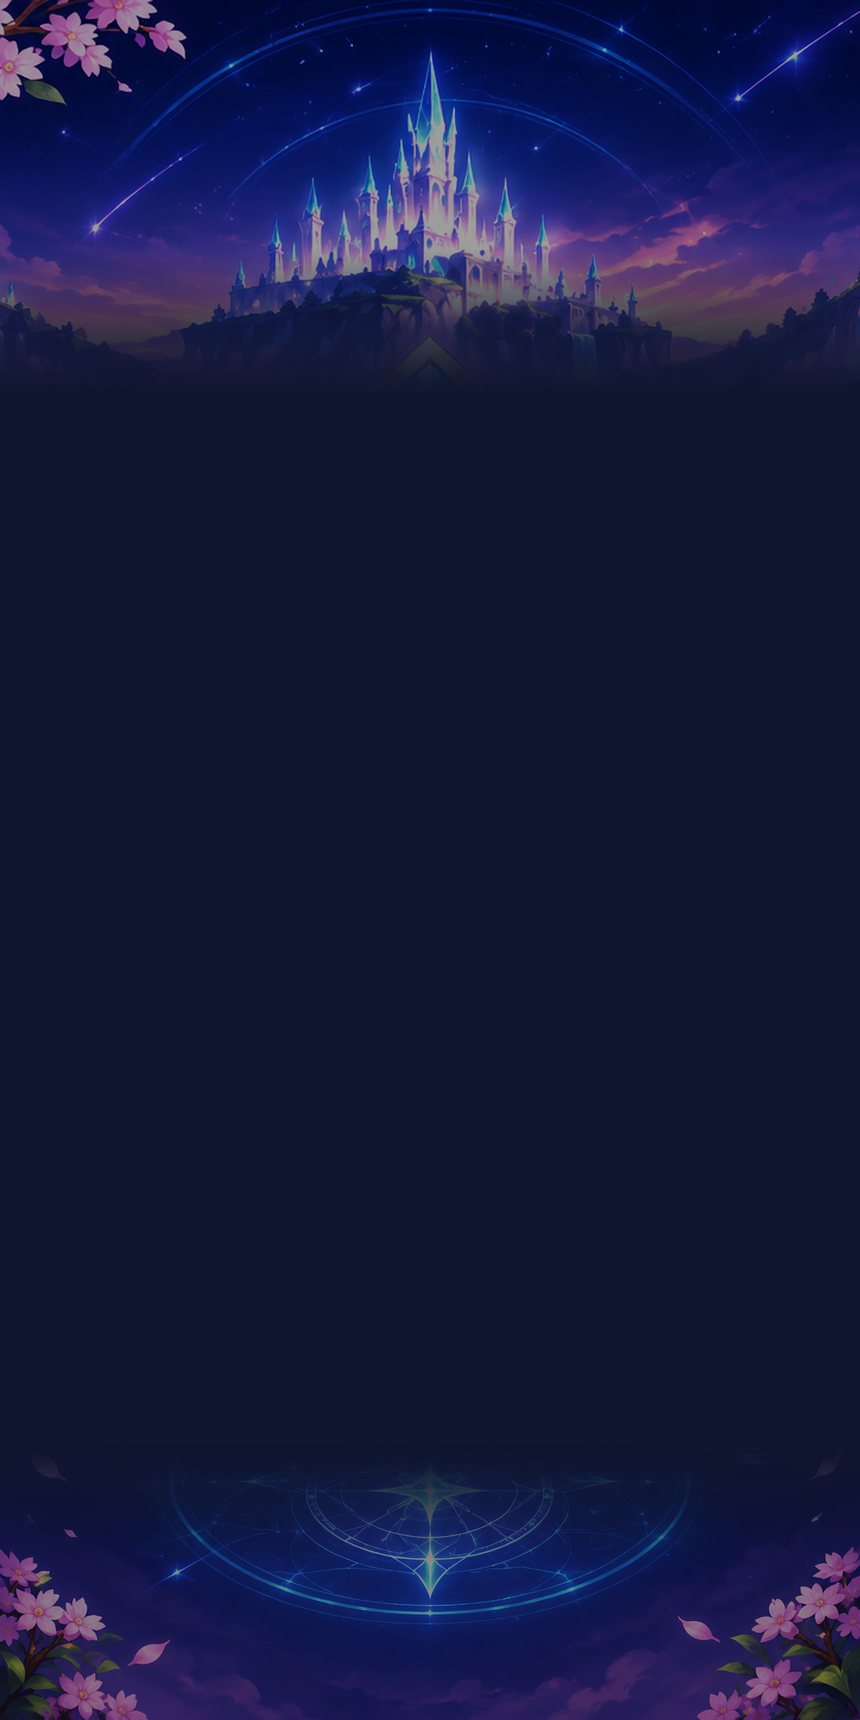
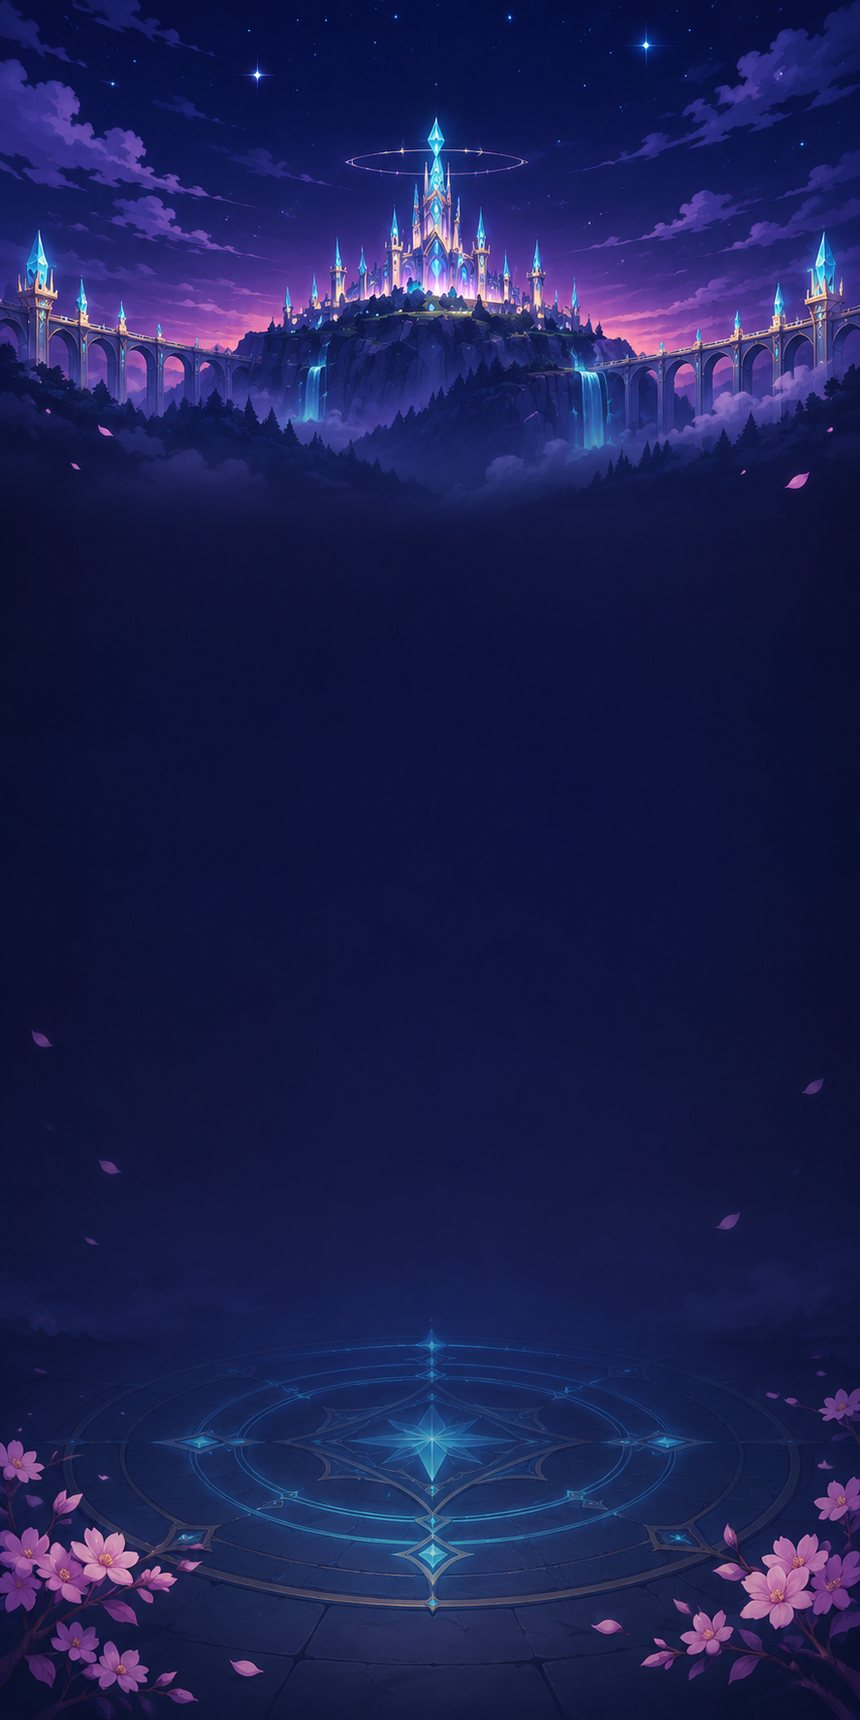
thap B3: ảnh anime mới — vòng quay, rương, băng shop/sự kiện, tấm hộp thoại, ổ khoá/cộng/tích, nền màn tải
Claude-Session: https://claude.ai/code/session_01KQA7LFBkcdkiPiLcwYs7V2

diff --git a/thap/css/ui-anime.css b/thap/css/ui-anime.css
@@ -15,6 +15,7 @@
   --ua-a: url(../assets/ua_nut_chinh.png) 40 75 fill; --ua-b: url(../assets/ua_nut_phu.png) 36 60 fill;
   --ua-p: url(../assets/ua_pill_tat.png) 40 62 fill; --ua-pb: url(../assets/ua_pill_bat.png) 40 62 fill;
   --ua-t: url(../assets/ua_tam.png) 50 fill; --ua-o: url(../assets/ua_o.png) 52 fill;
+  --ua-t2: url(../assets/ua_tam2.png) 60 44 44 44 fill; /* tấm hộp thoại lớn (vương miện giữa mép trên): rộng ≥ 300 */
 }
 html.ua, html.ua body { background: #10162F; }
 /* token màu cũ trỏ về bảng mới (chữ/nhấn trong mọi màn menu đổi theo) */
@@ -179,7 +180,7 @@ html.ua body #wrap #chon button.hm-choi.dc-tat { border-image-source: url(../ass
 html.ua body #wrap #chon button.hm-choi.dc-tat b, html.ua body #wrap #chon button.hm-choi.dc-tat small { color: #B8C3E6 !important; }
 /* ô bộ bài trống: ô vát góc chàm (ua_o) + nút tròn cộng (ua_nut_tron) — thay khung thép + ốc */
 html.ua body #wrap #chon #chon-bo .o-bo:not([data-id]) { background: none !important; border: 0 solid transparent !important; border-image: var(--ua-o) / 14px 14px stretch !important; }
-html.ua body #wrap #chon #chon-bo .o-bo:not([data-id]) > img.dc-cong { content: url(../assets/ua_nut_tron.png); width: 34px !important; height: 36px !important; opacity: .9; }
+html.ua body #wrap #chon #chon-bo .o-bo:not([data-id]) > img.dc-cong { width: 26px !important; height: 26px !important; margin: -13px 0 0 -13px !important; opacity: .9; }
 /* bộ bài: 5 ô gọn hơn (rộng 62) để lưới bắt đầu cao hơn — vuốt dọc từ hàng thẻ thứ 2 vẫn là cuộn (dkkeo: kéo lên quá mép lưới = kéo thẻ) */
 html.ua body #wrap #chon #chon-bo { justify-content: center !important; gap: 12px !important; padding-top: 24px !important; }
 html.ua body #wrap #chon #chon-bo .o-bo { flex: 0 0 62px !important; width: 62px !important; }
@@ -282,14 +283,16 @@ html.ua body #wrap #kt .kt-h-g .tb-sb { border: 0 !important; border-image: none
 html.ua body #wrap #kt .kt-h-g .tb-sb .tb-day img { content: url(../assets/ha_mau_xanh.png); object-fit: fill; }
 html.ua body #wrap #kt .tb-sb b { color: #F7F8FF !important; text-shadow: 0 1px 2px #000, 0 0 3px #000 !important; }
 /* băng DAILY SPECIALS: tạm = tấm chàm + icon cửa hàng (ảnh băng anime riêng: PROMPT-B3.md) — bỏ khung thép của shop_banner */
-html.ua body #wrap #kt .kt-bn { height: 84px; border: 0 solid transparent; border-image: var(--ua-t) / 18px 22px stretch; }
-html.ua body #wrap #kt .kt-bn > img { content: url(../assets/ua_ic_shop.png); position: absolute; right: 18px; top: 50%; width: 70px !important; height: 70px !important; margin-top: -35px; object-fit: contain; filter: drop-shadow(0 2px 3px #000a); } /* vetay-ok: png — bóng theo alpha của chính ảnh */
+html.ua body #wrap #kt .kt-bn > img { content: url(../assets/ua_bn_shop.png); } /* băng anime: trái trống cho chữ, phải quầy hàng + rương */
 html.ua body #wrap #kt .kt-bn b { color: #FFB866 !important; }
 /* hộp thoại cửa hàng (tỉ lệ rương, nhận thưởng, mở khoá…): tấm chàm */
 html.ua body #wrap #kt .kt-phu-tam { border-image: var(--ua-t) / 20px 22px stretch !important; }
 html.ua body #wrap #kt .kt-phu.kt-mo .kt-phu-tam { border-image: none !important; }
 /* sự kiện: băng ụ nổi bật (khung vàng-thép) → tạm tấm chàm (ảnh băng anime: PROMPT-B3.md); thanh điểm teal */
-html.ua body #wrap #kt .kt-skd { border: 0 solid transparent; border-image: var(--ua-t) / 18px 22px stretch; aspect-ratio: auto; min-height: 104px; padding-left: 18px; }
+html.ua body #wrap #kt .kt-skd { border: 0 solid transparent; border-image: url(../assets/ua_bn_sk.png) 50 60 40 230 fill / 22px 27px 18px 104px stretch; aspect-ratio: auto; height: 112px; padding: 0 0 0 0; gap: 14px; margin-left: 0; }
+html.ua body #wrap #kt .kt-skd { padding-left: 112px !important; }
+html.ua body #wrap #kt .kt-skd .ot-mini { position: absolute !important; left: 38px !important; top: 50% !important; margin-top: -28px !important; width: 56px !important; height: 56px !important; }
+html.ua body #wrap #kt .kt-skd > div { max-width: 62% !important; }
 html.ua body #wrap #kt .kt-skd > .kt-skd-bn { display: none !important; }
 html.ua body #wrap #kt .kt-skp .tb-sb { border: 0 !important; border-image: none !important; background: url(../assets/ha_mau_ranh.png) 0 50% / 100% 100% no-repeat !important; }
 html.ua body #wrap #kt .tb-day img, html.ua body #wrap #chon #chon-luoi .tb-day img { content: url(../assets/ha_mau_xanh.png); object-fit: fill; }
@@ -318,3 +321,30 @@ html.ua body #wrap #chon:not([hidden]) ~ #chon-goi-nhac { border-image: url(../a
 html.ua body #wrap #chon #kt .kt-tab button { border-image-width: 14px 15px !important; padding: 0 6px !important; white-space: nowrap; }
 html.ua body #wrap #chon #kt .kt-tab b { font-size: 12px !important; letter-spacing: .02em !important; }
 html.ua body #wrap .hm-tam-cai .hm-cai2 .hm-nut2, html.ua body #hm-mo .hm-tam-cai .hm-cai2 .hm-nut2 { font-size: 12.5px !important; padding: 0 14px !important; border-image-width: 14px 20px !important; white-space: normal; line-height: 1.1; }
+
+/* ổ khoá (ua_ic_khoa) trên thẻ ụ khoá: góc trên-trái (chỗ nút i, ẩn khi khoá) — không che mặt */
+html.ua body #wrap #chon #chon-luoi .c .tt-khoa-n:has(> img.tt-khoa-i) { display: grid !important; grid-template-columns: auto auto; grid-template-rows: auto auto; column-gap: 2px !important; row-gap: 0 !important; justify-content: center; align-items: center; }
+html.ua body #wrap #chon #chon-luoi .c .tt-khoa-n > img.tt-khoa-i { grid-row: 1 / 3; width: 16px !important; height: 16px !important; margin: 0 !important; }
+html.ua body #wrap #chon.bst #chon-luoi .c .tt-khoa-n > img.tt-khoa-i { width: 20px !important; height: 20px !important; }
+/* nhận xong (ua_ic_tick) ở hàng nhiệm vụ / điểm danh */
+html.ua body #wrap #kt .kt-h .kt-tick { width: 34px !important; right: -68px !important; top: 0 !important; }
+
+/* VÒNG QUAY anime (ua_vq_banh / khung / mui): khung 622×698, tâm vòng (0,4985 W; 0,498 W), lỗ trong ≈ 0,645 W */
+html.ua body #wrap #kt .kt-vq { width: 300px !important; height: 300px !important; margin: 40px auto 120px !important; }
+html.ua body #wrap #kt .kt-vq-khung { left: -50px !important; top: -50px !important; width: 400px !important; z-index: 1; }
+html.ua body #wrap #kt .kt-vq-banh { left: 21px !important; top: 21px !important; right: 21px !important; bottom: 21px !important; }
+html.ua body #wrap #kt .kt-vq-o { transform: rotate(var(--a)) translateY(-82px) !important; }
+html.ua body #wrap #kt .kt-vq-o > .kt-r { left: -28px !important; width: 56px !important; }
+html.ua body #wrap #kt .kt-vq-o .kt-r > img { width: 34px !important; height: 34px !important; }
+html.ua body #wrap #kt .kt-vq-mui { top: -40px !important; width: 34px !important; margin-left: -17px !important; z-index: 2 !important; filter: drop-shadow(0 2px 2px #000a); } /* vetay-ok: png — bóng theo alpha của chính ảnh */
+/* màn danh sách (cửa hàng/nhiệm vụ/sự kiện): nền mờ bớt để chữ trên trời sáng vẫn đọc rõ */
+html.ua body #wrap #kt .kt-nen { opacity: .5 !important; }
+html.ua body #wrap #chon:not(.bst) #chon-luoi .c .tt-khoa-n b { font-size: 9px !important; letter-spacing: -.02em !important; }
+html.ua body #wrap #chon:not(.bst) #chon-luoi .c .tt-khoa-n > img.tt-khoa-i { width: 13px !important; height: 13px !important; }
+html.ua body #wrap #chon:not(.bst) #chon-luoi .c .tt-khoa-n { left: 2% !important; right: 2% !important; }
+/* hộp thoại / bảng trượt lớn: tấm ChatGPT riêng (ua_tam2) */
+html.ua body #wrap .hm-tam, html.ua body #hm-mo .hm-tam, html.ua body #wrap #kt .kt-phu-tam, html.ua body #wrap #tt-phu .kt-phu-tam, html.ua body .onl-bang, html.ua body #xoay-doc .xd-tam { border-image: var(--ua-t2) / 30px 22px 22px 22px stretch !important; }
+html.ua body #wrap #kt .kt-phu.kt-mo .kt-phu-tam { border-image: none !important; }
+html.ua body #wrap #kt .kt-phu-tam, html.ua body #wrap #tt-phu .kt-phu-tam { padding-top: 34px !important; padding-left: 26px !important; padding-right: 26px !important; }
+html.ua body #wrap .hm-tam, html.ua body #hm-mo .hm-tam { padding-top: 28px !important; padding-left: 26px !important; padding-right: 26px !important; }
+html.ua body #wrap .hm-tam-loc .hm-chips.c3 .hm-chip, html.ua body #hm-mo .hm-tam-loc .hm-chips.c3 .hm-chip { font-size: 12px !important; letter-spacing: 0 !important; border-image-width: 12px 13px !important; padding: 0 2px !important; gap: 2px !important; }

diff --git a/thap/js/ui-anime.js b/thap/js/ui-anime.js
@@ -12,13 +12,15 @@ const UA = {
   ANH: ['ua_nen', 'ua_nut_chinh', 'ua_nut_phu', 'ua_nut_tron', 'ua_pill_bat', 'ua_pill_tat', 'ua_tam', 'ua_o', 'ua_mien',
     'ua_ic_nv', 'ua_ic_shop', 'ua_ic_sk', 'ua_ic_vq', 'ua_ic_deck', 'ua_ic_bst', 'ua_ic_trum', 'ua_ic_cai',
     'ua_ic_lui', 'ua_ic_dong', 'ua_ic_loc', 'ua_ic_tim', 'ua_ic_tin', 'ua_ic_xong',
-    'ua_ts_mana', 'ua_ts_vang', 'ua_ts_ngoc', 'ua_ts_do', 'ua_ts_sk', 'ua_ts_xp'],
+    'ua_ts_mana', 'ua_ts_vang', 'ua_ts_ngoc', 'ua_ts_do', 'ua_ts_sk', 'ua_ts_xp',
+    'ua_vq_banh', 'ua_vq_khung', 'ua_vq_mui', 'ua_ic_khoa', 'ua_ic_cong', 'ua_ic_tick', 'ua_bn_shop', 'ua_bn_sk', 'ua_tam2',
+    'ua_ru_thuong', 'ua_ru_vang', 'ua_ru_than', 'ua_ru_thuong_mo', 'ua_ru_vang_mo', 'ua_ru_than_mo'],
   // ảnh cũ → ảnh mới (src <img> do JS/HTML đặt). Ngọc (tiền ngoài trận) = kim cương hồng; MANA (trong trận) = lục giác teal.
   DOI: {
     p7_ic_caidat: 'ua_ic_cai', p7_ic_lui: 'ua_ic_lui', p7_ic_dong: 'ua_ic_dong', p7_ic_loc: 'ua_ic_loc', p7_ic_tim: 'ua_ic_tim',
-    p7_ic_tin: 'ua_ic_tin', p7_ic_xong: 'ua_ic_xong', p7_ic_bomau: 'ua_ic_deck', ic_lui: 'ua_ic_lui',
+    p7_ic_tin: 'ua_ic_tin', p7_ic_xong: 'ua_ic_tick', nut_cong: 'ua_ic_cong', p7_ic_bomau: 'ua_ic_deck', ic_lui: 'ua_ic_lui',
     shop_vang: 'ua_ts_vang', shop_ngoc: 'ua_ts_ngoc', h2_ngoc: 'ua_ts_mana', ui_mana: 'ua_ts_mana',
-    shop_nut_nv: 'ua_ic_nv', shop_nut_shop: 'ua_ic_shop', shop_nut_sk: 'ua_ic_sk', shop_nut_vq: 'ua_ic_vq',
+    shop_nut_nv: 'ua_ic_nv', shop_nut_shop: 'ua_ic_shop', shop_nut_sk: 'ua_ic_sk', shop_nut_vq: 'ua_ic_vq', shop_ru_thuong: 'ua_ru_thuong', shop_ru_vang: 'ua_ru_vang', shop_ru_than: 'ua_ru_than', shop_banner: 'ua_bn_shop', shop_banner_su: 'ua_bn_sk',
   },
   bat: false, _cu: null,
   a(n) { return n === 'ua_nen' ? 'assets/ua_nen.jpg' : (typeof anhUrl === 'function' ? anhUrl(n) : 'assets/' + n + '.png'); },
@@ -46,16 +48,21 @@ const UA = {
       if (this._cu) return;
       const c = this._cu = {};
       if (typeof KTA !== 'undefined') {
-        c.kta = { vang: KTA.vang, ngoc: KTA.ngoc, xong: KTA.xong, tin: KTA.tin, lui: KTA.lui, nut: Object.assign({}, KTA.nut) };
-        KTA.vang = 'ua_ts_vang'; KTA.ngoc = 'ua_ts_ngoc'; KTA.xong = 'ua_ic_xong'; KTA.tin = 'ua_ic_tin'; KTA.lui = 'ua_ic_lui';
+        c.kta = { vang: KTA.vang, ngoc: KTA.ngoc, xong: KTA.xong, tin: KTA.tin, lui: KTA.lui, nut: Object.assign({}, KTA.nut), banh: KTA.banh, banhKhung: KTA.banhKhung, mui: KTA.mui, ru: Object.assign({}, KTA.ru), ruMo: Object.assign({}, KTA.ruMo), bannerSk: KTA.bannerSk };
+        KTA.vang = 'ua_ts_vang'; KTA.ngoc = 'ua_ts_ngoc'; KTA.xong = 'ua_ic_tick'; KTA.tin = 'ua_ic_tin'; KTA.lui = 'ua_ic_lui';
+        KTA.banh = 'ua_vq_banh'; KTA.banhKhung = 'ua_vq_khung'; KTA.mui = 'ua_vq_mui'; // vòng quay anime (raw_ui3_vongquay)
+        KTA.ru = { thuong: 'ua_ru_thuong', vang: 'ua_ru_vang', than: 'ua_ru_than' }; KTA.ruMo = { thuong: 'ua_ru_thuong_mo', vang: 'ua_ru_vang_mo', than: 'ua_ru_than_mo' }; // rương anime (raw_ui3_ruong)
+        KTA.bannerSk = 'ua_bn_sk';
         KTA.nut = { shop: 'ua_ic_shop', vq: 'ua_ic_vq', nv: 'ua_ic_nv', sk: 'ua_ic_sk' };
       }
+      if (typeof TTA !== 'undefined') { c.tta = TTA.khoa; TTA.khoa = 'ua_ic_khoa'; } // ổ khoá trên thẻ ụ khoá
       if (typeof TIEN !== 'undefined') { c.tien = TIEN.mana.glyph; TIEN.mana.glyph = 'ua_ts_mana'; }
       if (typeof CHI !== 'undefined') { c.chi = [CHI.trieu.icon, CHI.mv.icon]; CHI.trieu.icon = CHI.mv.icon = 'ua_ts_mana'; }
     } else if (this._cu) {
       const c = this._cu; this._cu = null;
       if (c.kta) Object.assign(KTA, c.kta);
       if (c.tien) TIEN.mana.glyph = c.tien;
+      if (c.tta !== undefined) TTA.khoa = c.tta;
       if (c.chi) { CHI.trieu.icon = c.chi[0]; CHI.mv.icon = c.chi[1]; }
     }
   },

diff --git a/thap/index.html b/thap/index.html
@@ -31,7 +31,7 @@
     @font-face { font-family: 'TM Display'; font-weight: 100 900; font-display: swap; src: url(assets/fonts/oxanium/oxanium-latin-800-normal.woff2) format('woff2'); }
     html, body { margin: 0; height: 100%; background: #16171a; overflow: hidden; }
     html.dang-tai #wrap > * { visibility: hidden; }
[2 lines of base64/hex data omitted]
     #tai[hidden] { display: none; }
     #tai:not(.san) .tai-giua { visibility: hidden; } /* đợi logo + khung (script dưới #tai) */
     #tai .tai-giua { display: flex; flex-direction: column; align-items: center; gap: 18px; width: 340px; transform: scale(var(--tk, 1)); }

diff --git a/tools/thap-cat-ui3.py b/tools/thap-cat-ui3.py
@@ -179,6 +179,50 @@ duoi = np.asarray(duoi).astype(np.float32) * 0.55
 ghep_doc(nen, duoi, NH - duoi.shape[0], 120, 0)
 luu(Image.fromarray(np.clip(nen, 0, 255).astype(np.uint8)), 'ua_nen.jpg', 'nền ngoài trận 2× (cover 430×860)')
 
+
+# ---------------- 7. ảnh ChatGPT đợt 2 (raw_ui3_*, 09/11) ----------------
+def co(ten):
+    return os.path.exists(os.path.join(NGUON, ten))
+
+
+def vuong(im):
+    s = max(im.size)
+    v = Image.new('RGBA', (s, s), (0, 0, 0, 0)); v.alpha_composite(im, ((s - im.size[0]) // 2, (s - im.size[1]) // 2))
+    return v
+
+
+if co('raw_ui3_vongquay.png'):
+    V = raw('raw_ui3_vongquay.png')
+    luu(thu(vuong(cat(V, (146, 49, 746, 655))), 600, 600), 'ua_vq_banh.png', 'đĩa vòng quay 8 ô (CSS ~200)')
+    luu(thu(cat(V, (846, 0, 1492, 714), 0), 640), 'ua_vq_khung.png', 'khung vòng + chân đế')
+    luu(thu(cat(V, (1699, 185, 1935, 509)), 120), 'ua_vq_mui.png', 'mũi chỉ xuống')
+if co('raw_ui3_icon_nho.png'):
+    I3 = raw('raw_ui3_icon_nho.png')
+    for ten, hop in zip(['khoa', 'cong', 'tick'], [(91, 33, 642, 688), (806, 84, 1362, 636), (1513, 124, 2116, 627)]):
+        luu(thu(vuong(cat(I3, hop)), 120, 120), 'ua_ic_' + ten + '.png', 'icon nhỏ ≤40 css')
+if co('raw_ui3_ruong.png'):
+    R3 = raw('raw_ui3_ruong.png')
+    HOP = [(51, 89, 487, 444), (543, 72, 987, 452), (1031, 28, 1509, 453), (46, 530, 478, 991), (535, 513, 980, 991), (1052, 470, 1502, 995)]
+    for i, (ten, hop) in enumerate(zip(['thuong', 'vang', 'than', 'thuong_mo', 'vang_mo', 'than_mo'], HOP)):
+        # cùng khung vuông 480 (đáy rương thẳng hàng): đặt sát đáy, giữa ngang
+        im = cat(R3, hop); v = Image.new('RGBA', (480, 480), (0, 0, 0, 0))
+        sc = min(1, 470 / max(im.size)); im = thu(im, round(im.size[0] * sc), round(im.size[1] * sc))
+        v.alpha_composite(im, ((480 - im.size[0]) // 2, 480 - im.size[1] - 5))
+        luu(thu(v, 360, 360), 'ua_ru_' + ten + '.png', 'rương anime (CSS ≤120)')
+if co('raw_ui3_banner.png'):
+    Bn3 = raw('raw_ui3_banner.png')
+    luu(thu(cat(Bn3, (46, 0, 2126, 350), 0), 1200), 'ua_bn_shop.png', 'băng DAILY SPECIALS')
+    luu(thu(cat(Bn3, (46, 390, 2126, 724), 0), 1200), 'ua_bn_sk.png', 'khung băng sự kiện (ô chân dung trái)')
+if co('raw_ui3_tam.png'):
+    luu(thu(cat(raw('raw_ui3_tam.png'), (38, 26, 1498, 952)), 720), 'ua_tam2.png', 'tấm hộp thoại lớn 9 lát')
+if co('raw_ui3_nen_home.png'):
+    Nh = Image.open(os.path.join(NGUON, 'raw_ui3_nen_home.png')).convert('RGB')
+    luu(Nh.resize((860, round(Nh.size[1] * 860 / Nh.size[0])), Image.LANCZOS), 'ua_nen.jpg', 'nền ngoài trận ChatGPT (thay bản ghép)')
+    # màn tải (index.html #tai, taitai.css) dùng nen_menu.jpg 1024×1536: thay bằng cùng nền anime (cover). Ảnh mờ 32×48 nội tuyến trong index.html dựng lại tay khi đổi.
+    sc = max(1024 / Nh.size[0], 1536 / Nh.size[1]); m = Nh.resize((round(Nh.size[0] * sc), round(Nh.size[1] * sc)), Image.LANCZOS)
+    x0, y0 = (m.size[0] - 1024) // 2, (m.size[1] - 1536) // 2
+    luu(m.crop((x0, y0, x0 + 1024, y0 + 1536)), 'nen_menu.jpg', 'nền màn tải anime')
+
 # ---------------- tờ xem ----------------
 if __name__ == '__main__':
     cw = 200

diff --git a/docs/demo-hop-tuong/tuvan/huong-anime/PROMPT-B3.md b/docs/demo-hop-tuong/tuvan/huong-anime/PROMPT-B3.md
@@ -1,4 +1,6 @@
-# Ảnh còn thiếu cho giao diện NGOÀI TRẬN anime (B3, 09/11) — prompt gen ChatGPT
+# Ảnh cho giao diện NGOÀI TRẬN anime (B3, 09/11) — prompt gen ChatGPT
+
+**ĐÃ GEN 09/11 (cả 7 mục, đạt lần đầu):** raw_ui3_vongquay, raw_ui3_icon_nho, raw_ui3_banner (băng shop + khung băng sự kiện chung 1 tấm), raw_ui3_ruong, raw_ui3_tam, raw_ui3_nen_home (cũng thay nen_menu.jpg của màn tải). Cắt: `tools/thap-cat-ui3.py` mục 7.
 
 Đang dùng ảnh TẠM (cắt từ tấm có sẵn bằng `tools/thap-cat-ui3.py`, hoặc tấm chàm + icon). Gen xong: đặt raw vào
 `docs/demo-hop-tuong/thap-art/raw_ui3_<ten>.png`, thêm bước cắt vào `tools/thap-cat-ui3.py` (ghi đúng tên `thap/assets/ua_*.png`)
